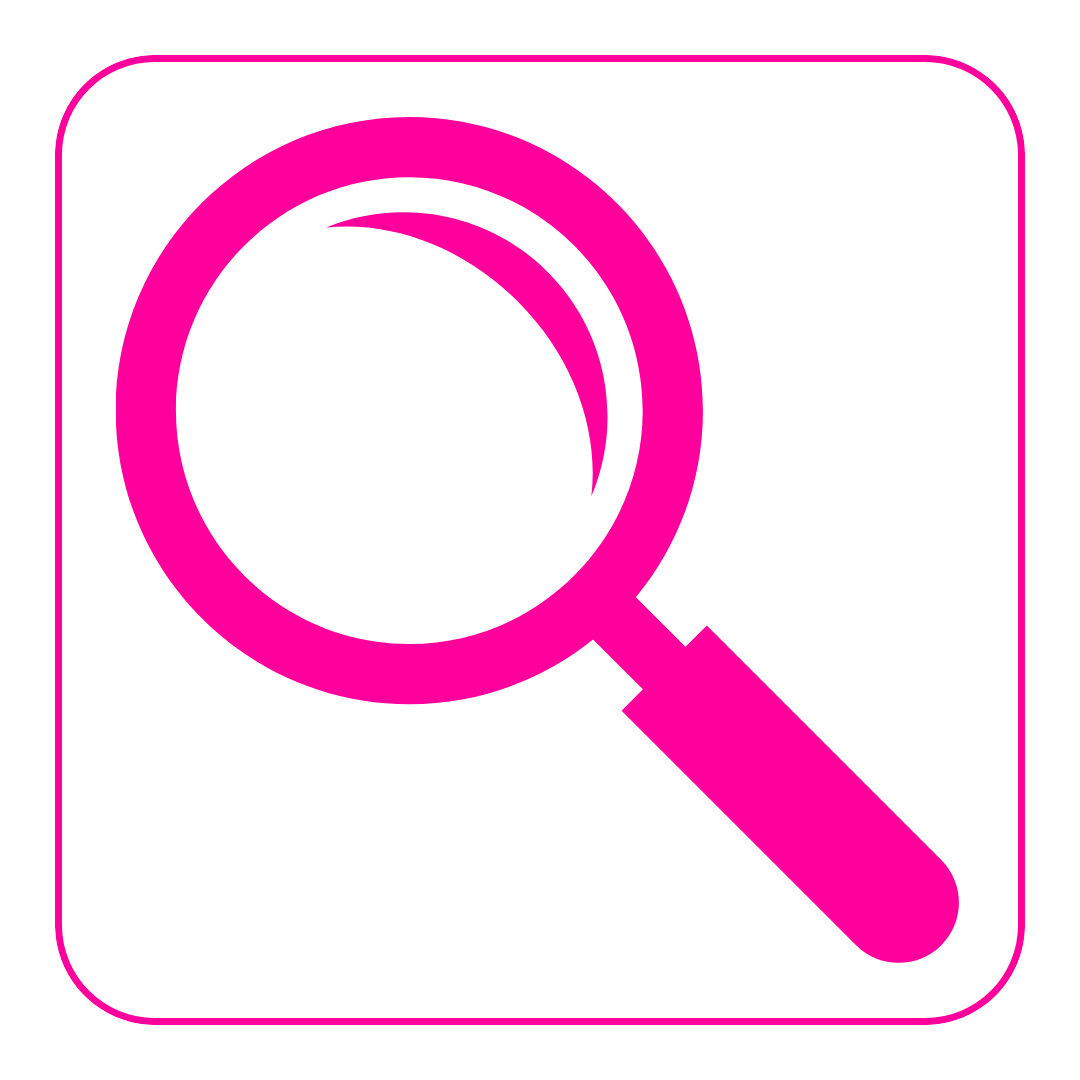
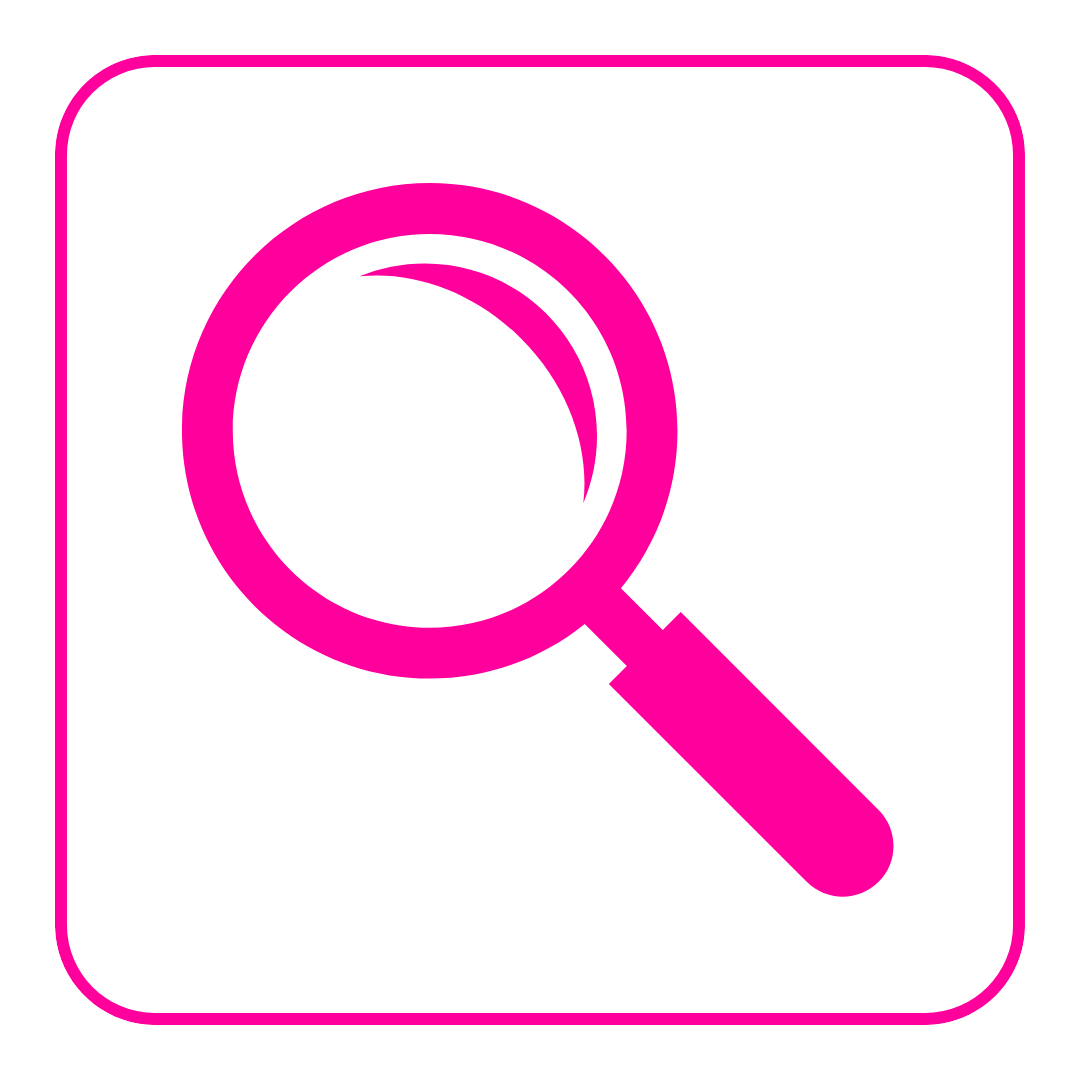
v mobile

diff --git a/static/css/ios-safari.min.css b/static/css/ios-safari.min.css
@@ -237,9 +237,6 @@
 
 /* Tablet Layout */
 @media (max-width: 991.98px) {
-    .main-header {
-        padding: var(--spacing-md) 0;
-    }
     
     .header-content {
         display: flex;
@@ -264,9 +261,6 @@
 
 /* Mobile Layout */
 @media (max-width: 767.98px) {
-    .main-header {
-        padding: var(--spacing-sm) 0;
-    }
     
     .header-content {
         gap: var(--spacing-sm);
@@ -325,7 +319,7 @@
 /* Small Mobile Layout */
 @media (max-width: 575.98px) {
     .main-header {
-        padding: var(--spacing-xs) 0;
+        padding: 0;
     }
     
     .header-content {

diff --git a/static/css/mobile-app.css b/static/css/mobile-app.css
@@ -332,10 +332,6 @@
         padding: 6px 10px;
     }
     
-    .search-icon {
-        width: 16px;
-        height: 16px;
-    }
 }
 
 /* Копірайт */
@@ -426,11 +422,6 @@
     .main-nav,
     .desktop-nav {
         display: none;
-    }
-    
-    /* Спрощений header для мобільних - тільки логотип та кнопка пошуку */
-    .main-header {
-        padding: 8px 0;
     }
     
     .header-content {

diff --git a/static/css/mobile.min.css b/static/css/mobile.min.css
@@ -597,7 +597,7 @@
         top: 0;
         z-index: 100;
         background: var(--white);
-        border-bottom: 1px solid var(--neutral-light);
+        border-bottom: 1px solid #e91e63;
     }
     
     

diff --git a/static/css/categories-circular.css b/static/css/categories-circular.css
@@ -164,7 +164,6 @@
     
     .category-circle-name {
         font-size: 11px;
-        max-width: 90px;
         margin-top: 0;
         line-height: 1.4;
     }

diff --git a/static/css/mobile-search.css b/static/css/mobile-search.css
@@ -48,8 +48,8 @@
 }
 
 .mobile-search-btn .search-icon {
-    width: 28px;
-    height: 28px;
+    width: 40px;
+    height: 40px;
     object-fit: contain;
 }
 

diff --git a/static/css/components.min.css b/static/css/components.min.css
@@ -165,8 +165,6 @@
 }
 
 .search-icon {
-    width: 20px;
-    height: 20px;
     color: currentColor;
 }
 
